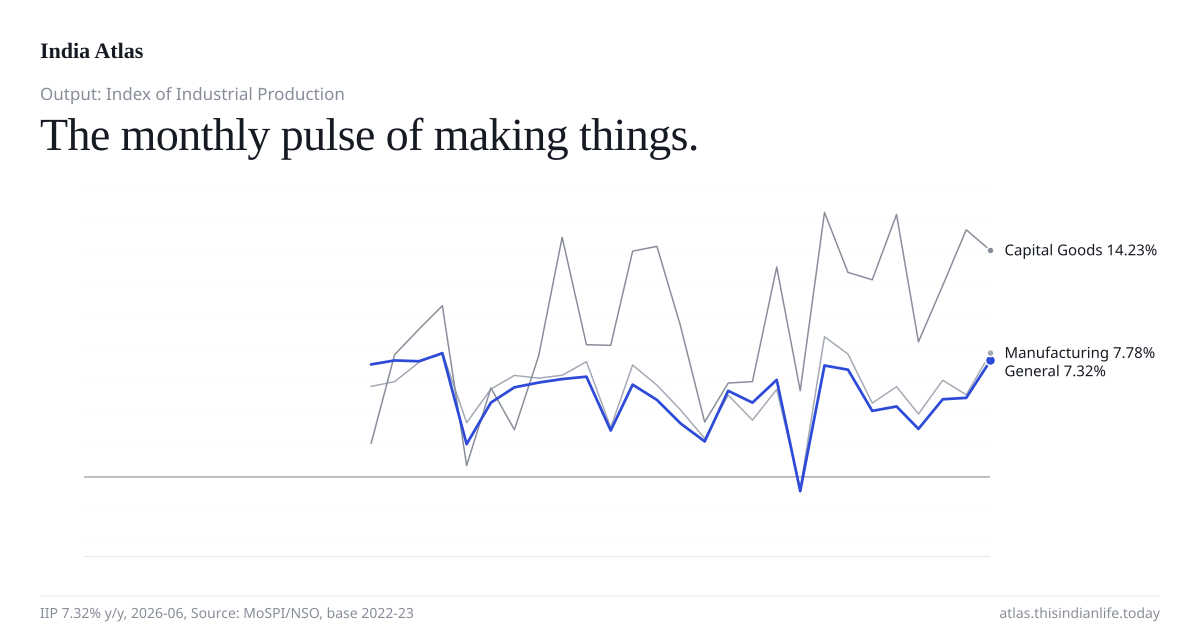
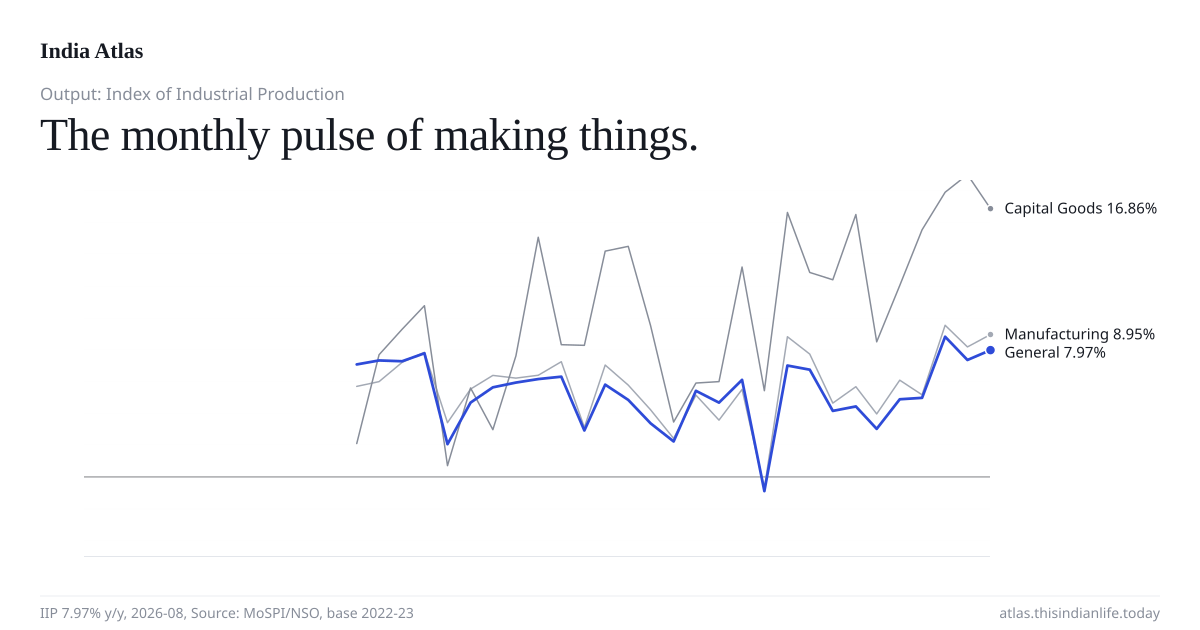
industry: factories prose regenerated and read; slot briefs (readable scales, no cross-unit rankings, the 2025 round as its own year); iip OG card; status: done
Claude-Session: https://claude.ai/code/session_01Xu1EWeKvd7WMZ57G3rsuLJ

diff --git a/src/dossiers/registry.js b/src/dossiers/registry.js
@@ -287,7 +287,7 @@ export const DOSSIERS = [
     stamp: { dateText: "August 2026", vintageStyle: "round", plural: true },
     statusNote: "Evergreen, revised with each survey round",
     version: "v1.2",
-    proseInputs: ["asi-industries", "asi-states", "asuse-annual", "asuse-sectors", "asuse-states"],
+    proseInputs: ["asi-industries", "asi-states", "asuse-annual", "asuse-sectors", "asuse-states", "asuse-2025-t26"],
     currentBundle: "asi-headline",
     calendar: "fiscal-apr",
     bands: null,

diff --git a/docs/status/industry.md b/docs/status/industry.md
@@ -3,68 +3,97 @@
 Session atlas-industry, branch `lb/industry`, port 4423. Brief: `docs/briefs/industry.md` (wave 2).
 Guides `iip` and `factories`; ledgers `iip`, `isp`, `core`, `iip-dbie`, `asi`, `asuse`.
 
-## Done
+## State: done (2026-10-10)
 
-- **IIP financial years, every base** (2026-10-10): `iip-annual-2022/2011/2004/1993`, MoSPI's
-  own annual rows (frequency=Annually), levels and published growth. Checked: each annual
-  General index is the mean of its twelve monthly levels (within 0.05), growth matches levels.
-- **IIP base 1980-81** (new ruler, from the RBI's copy, DBIE 638 and 219): `iip-1980` (General
-  and three sectors, y/y Apr 1982 to Mar 1998), `iip-industries-1980` (17 manufacturing groups
-  to Mar 1994), `iip-annual-1980`. MoSPI's API does not serve this base. Seam registered.
-- **Eight core industries** (DBIE 499, 989): `core-1993`, `core-2004`, `core-2011`, annual index
-  and published growth. Ledger `core`.
-- ISP annual: the services guide already bakes `services-isp-annual` from the same call; the
-  `isp` ledger points at it and the iip guide lists it in downloads (no second copy).
+Nothing pending in my ledgers (`coverage --strict`: asi 59,121 items, asuse 2,275, iip 266,
+isp 38, core 52, iip-dbie 161, all decided). `npx astro build`, `npm run gates`, `npm test`
+(41/41), `npm run prose:dry` green after the second launch-build merge (1bf0f5e). Both pages
+looked at 1440 and 390; every new chart read; one share PNG downloaded (factories, state x
+division mix: title, chart, source, brand all present).
 
-- **IIP guide**: §03 deep ledger now three retired rulers (1980-81 added); new §04 financial
-  years on five rulers; new §07 the core eight (latest year by industry with weights; 31 years
-  on three rulers against the IIP); misreading on the core; provenance rewritten. Prose
-  regenerated (DeepSeek), verified (22 + 12 figures), read by hand: the brief now forces
-  growth-rate counts to be called "accelerated"/"slowed" (the first draft said "17 rising
-  against 15 falling", which read as output).
-- **ASUSE, every table** (2026-10-10): all 44 annual indicators in both rulers, `asuse-tNN`
-  (financial-year rounds) and `asuse-2025-tNN` (calendar 2025, its own seam), 73 bundles, 20,225
-  series. Each series varies at most one of the five cuts (state, sector, activity, broad
-  activity, establishment type), which is what a catalogue item is; the full crosses (630,011
-  rows) are staged in `data/archive/staging/asuse/` rolling up to those bundles. Raw: per-table
-  gzip in staging + committed `data/raw/asuse-index.json` (the 65 MB `asuse-records.json` is
-  retired; it is in git history). Quarterly bulletin now to Apr-Jun 2026.
-- **Factories guide so far**: what a factory job pays (emoluments per person by industry) and
-  how big the plant is (persons per factory); the 2025 round: workers by trade (46 activities)
-  and women's share by trade. Quarterly-bulletin text and the meta strip read their periods from
-  the bundle (they had "Jan-Mar 2026" typed in).
+## What is built
 
-## In progress
+**IIP guide**
+- Financial years, every MoSPI base: `iip-annual-2022/2011/2004/1993` (levels and published
+  growth as served). Each annual General index equals the mean of its twelve monthly levels.
+- Base 1980-81, which MoSPI's API does not serve, from the RBI's copy (DBIE 638, 219):
+  `iip-1980` (General and sectors, y/y 1982-1998), `iip-industries-1980` (17 groups to 1994),
+  `iip-annual-1980`. A fifth seam.
+- Eight core industries (DBIE 499, 989), three bases: `core-1993`, `core-2004`, `core-2011`.
+- Plates: §03 deep ledger now three retired rulers; §04 financial years on five rulers; §07 the
+  core eight (latest year by industry with weights; composite on three rulers against the IIP).
+  Misreading on the core; provenance rewritten. Prose regenerated and read.
+- ISP annual: the services guide's `services-isp-annual` (same call); listed in iip downloads.
 
-- Full MoSPI pull of every ASI table of every NIC block (one call at a time,
-  `logs/industry-queue.log`, ~34,000 calls; page cache purged per table). Then: complete ASI
-  bundles, the deeper ASI plates (4-digit classes, state by industry), factories prose.
+**Factories guide**
+- ASI, every indicator of every NIC block at every grain served: `asi[-<block>]-nic2/3/4`,
+  `asi-states-all`, `asi-<block>-states`, `asi-<block>-accounts`, NIC 2008 states by division
+  as `asi-state-nic2-<state>` (37 files). Archive tier, staged in `data/archive/staging/asi/`
+  (long csv.gz): all states x 3-digit groups (2008, 2004, 1987) and the older blocks' states x
+  2-digit divisions (2,281,445 rows in six files). State x 4-digit is not served at all.
+- ASUSE, every annual table in both rulers: `asuse-tNN` (2021-22 to 2023-24) and
+  `asuse-2025-tNN` (calendar 2025), 73 bundles, 20,225 series; full crosses (630,011 rows) in
+  `data/archive/staging/asuse/`. Quarterly bulletin to Apr-Jun 2026.
+- New plates: what a factory job pays by industry; persons per factory; the 20 largest 4-digit
+  classes; state x division mix; ASUSE 2025 workers by trade; women's share by trade. Every-cut:
+  111,253 series (4 family views: ASUSE FY, ASUSE 2025, ASI 2008, ASI older). Prose regenerated
+  and read.
+- Raw: complete tables gzipped in staging, committed indexes `data/raw/asi-index.json` (174
+  tables, 3,354,765 rows) and `data/raw/asuse-index.json`. Retired: `asuse-records.json` and
+  the old per-cut ASI dumps (in git history).
 
-## Decisions
+## Hand checks
 
-- Core industries: DBIE has annual tables only. The monthly index (OEA, DPIIT) is not in DBIE
-  or the Data Bank, so the guide carries the annual record; monthly is a follow-up (new source).
+- Core: composite growth 2025-26 2.7% (DBIE) = OEA's revised cumulative 2025-26 (release of
+  20 May 2026).
+- IIP 1980-81: 1986-87 annual average 155.09 (report 219) = mean of report 638's months.
+- IIP annual 2022-23 base: 2025-26 growth 4.3% as reported from MoSPI's 1 June 2026 release.
+- ASI 2023-24: GVA ₹24,58,336 crore and persons engaged 1,95,89,131 = MoSPI's ASI 2023-24
+  results; top five industries by GVA match asi-nic2's top five. Divisions' GVA sums to All
+  India exactly (validate).
+- ASUSE: All India establishments in `asuse-t01` identical to `asuse-annual`.
+
+## Decisions (for HISTORY.md)
+
+- Core industries are annual only: DBIE has no monthly index. The monthly series (OEA, DPIIT)
+  is a new source, not added; follow-up.
 - Core 1993-94 base: the RBI's 1994-95 growth rows are measured against the 1980-81 base's
-  level (composite -55.5%). A splice across rulers: dropped (raw keeps them), disclosed. Rule
-  checked generically for every base and industry.
-- Core 1993-94 base, 2010-11: the RBI prints two sets of growth rows; only the full-year ("Y")
-  set is baked.
-
-- ASUSE: the bake splits baked from archived by the cut rule above rather than by size, so the
-  boundary is the catalogue's own definition of an item.
-- ASUSE 2025 plates draw from a build-time pick (`#u25-data`): the table is 1.7 MB.
-- The core-industries bundle is not a prose input: its summary mixes index levels and growth
-  rates, which invited the writer to compare unlike figures.
+  level (composite -55.5%): a splice, dropped (raw keeps it); rule checked for every base.
+  The second, not-full-year set of 2010-11 rows on that base is not baked.
+- ASI 2008, 4-digit, 2023-24: indicators 36-49 arrive shifted one code down (persons engaged
+  stops adding up; adds up read one code up). Detected by the identity per grain and year;
+  indicators 36-50 of that year quarantined. Indicator 36 (children) excluded everywhere.
+- Archive line: NIC 2008 states x division baked (current ruler, 47k series, 22 MB); older
+  blocks' states x division and every states x 3-digit to the archive (69k + series, 28 MB+).
+- ASUSE baked/archive split by the catalogue's own definition of an item: a series varies at
+  most one of the five cuts; full crosses to the archive.
+- Pages carry build-time picks for the big tables (`#u25-data`, `#asi-deep-data`), keeping page
+  JS small.
+- Prose: core and other mixed-unit bundles are not prose inputs; slot briefs force readable
+  scales (₹ lakh crore, crore), "accelerated/slowed" for growth-rate counts, no cross-unit
+  rankings, and the 2025 ASUSE round named as its own year. Factories requiredFigures now
+  GVA growth and the factory count (the contract needs literal figures).
 
 ## Source quirks
 
-- ASUSE table 9: MoSPI relabelled the headline row ("Maintaining Bank/PO Savings Account" is
-  now "Maintaining any kind of  Account in Financial Institutions", double space as served);
-  the values are unchanged (666, 710, 761). Mapped; label updated.
-- ASUSE tables 1 and 2 now carry a measure dimension (count and percentage of establishments).
+- MoSPI has released ASI 2024-25 (factsheet); eSankhyiki still ends at 2023-24 (2026-10-10).
+- MoSPI annual IIP, base 2022-23: API growth 6.8% (2023-24) and 5.7% (2024-25); press summaries
+  quote 6.7% and 6.4%. API annual levels equal the monthly means. Release PDF: HTTP 403. Open.
+- ASUSE table 9 relabelled its headline row ("any kind of  Account in Financial Institutions",
+  double space); values unchanged. Tables 1 and 2 now carry a count and a percentage measure.
+- ASI listings name items with no rows: NIC 98 (all blocks), 1987 division 36 and group 249,
+  rural/urban sectors in 1987 and 1998, 1998 states x 3-digit. Excluded with reasons.
+- ASI NIC 99999 copies disagree in 3,853 cells across grains (mostly the 2023-24 4-digit shift
+  at state level); majority copy kept, as before.
+- Paging audit (launch-build c683ad4): all 174 ASI tables and 52 ASUSE tables have zero repeated
+  row keys; IIP monthly moved onto `mospiAll`; the offline rebake of every family changed nothing
+  in `data/series`; no "pages slipped" warnings.
+- IDH: the Data Bank's `india_data_hub_series` holds no IIP, core, ASI or ASUSE series.
 
-- MoSPI annual IIP, base 2022-23: API growth 6.8% (2023-24), 5.7% (2024-25), 4.3% (2025-26);
-  annual levels equal the monthly means. Press summaries of the 1 June 2026 release quote 6.7%
-  and 6.4% for the first two. The release PDF returned HTTP 403, so unresolved; flagged.
-- DBIE 638 carries the 2022-23 base to Jul 2026 with Quick/Revised/Final versions; MoSPI
-  remains the source of record.
+## Shared files touched (my blocks)
+
+`data/sources.yml` (core, iip-1980; seams: iip base 1980-81 and annual bundles, core, asuse, asi
+bundle lists), `scripts/fetch.mjs`, `scripts/validate.mjs`, `scripts/qc.mjs`,
+`src/dossiers/registry.js` (iip and factories entries), `src/dossiers/everycut.js`,
+`pipeline/asof-manifest.json`, `pipeline/slots.yml`, `public/og/iip.png`. Read, not owned:
+`services-isp-annual`.

diff --git a/pipeline/out/prose-factories.current-reading.what-the-print-says.md b/pipeline/out/prose-factories.current-reading.what-the-print-says.md
@@ -1,0 +1,1 @@
+In 2023-24 the registered factory sector turned out ₹153.3 lakh crore of gross output, up 5.8%, on ₹128.7 lakh crore of inputs, up 4.7%, leaving ₹24.6 lakh crore of gross value added, up 11.9%. Those are nominal rupees, so a rising line is prices as much as product. The survey counted 2,60,061 factories, up 2.7%, with 2,12,990 in operation, up 3.1%, and put fixed capital at ₹46.2 lakh crore and invested capital at ₹68.0 lakh crore, up 12.2% and 10.8%. The people on those floors numbered 1.96 crore, up 5.9%, of whom 1.55 crore were workers, up 6.2%, drawing ₹8.0 lakh crore in emoluments, up 11.8%. The rise is not uniform across lines: 31 of the 174 industry lines fell, and so did 49 of the 228 state lines. The unincorporated side is a separate instrument, ASUSE, whose 2023-24 round counted 12.06 crore workers, many times the factory headcount, and the two are never summed. ASUSE has since moved to a calendar-year round: its 2025 sweep, January to December, counts 12.8 crore workers, twelve months that are not the 2023-24 twelve months.

diff --git a/pipeline/out/prose-factories.current-reading.what-it-does-not-say.md b/pipeline/out/prose-factories.current-reading.what-it-does-not-say.md
@@ -1,0 +1,1 @@
+The 2023-24 release puts gross value added up 11.9%, and the number needs a warning attached. It is nominal: part of any rise in value is more output, part is dearer output, and this release does not split the two. We do not know how much is volume. The survey covers registered factories: 2.60 lakh of them, 1.96 crore people engaged. The unincorporated workshops beside them are a separate instrument, never summed with this one, so a total that adds the two is not from these tables. Even inside the registered universe the year is uneven, with food products' output growing while coke and refined petroleum fell, and these numbers arrive about two years after the year they describe, so the present is not in them.
